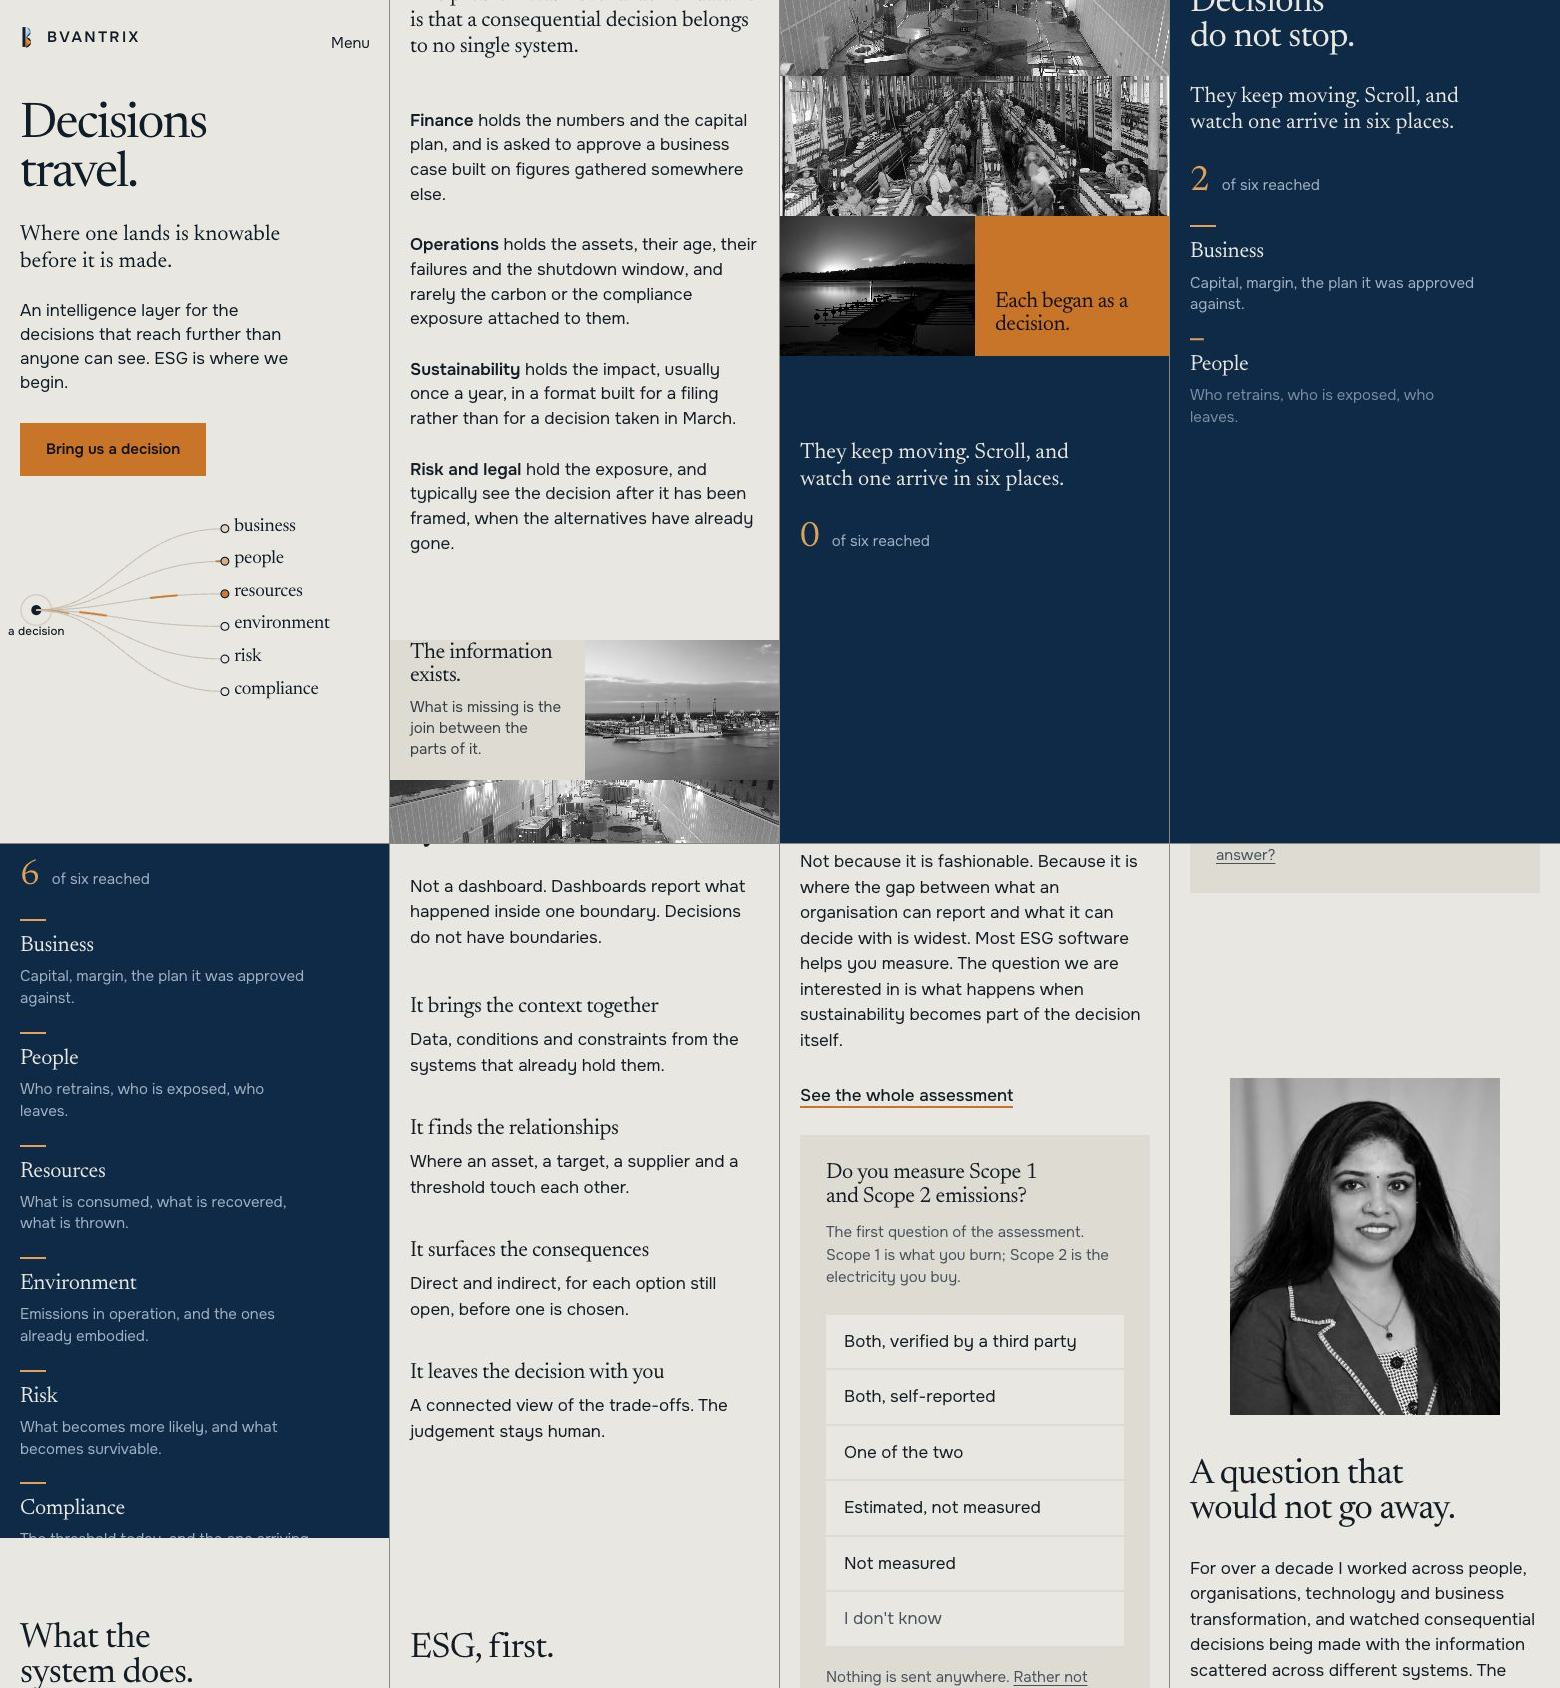
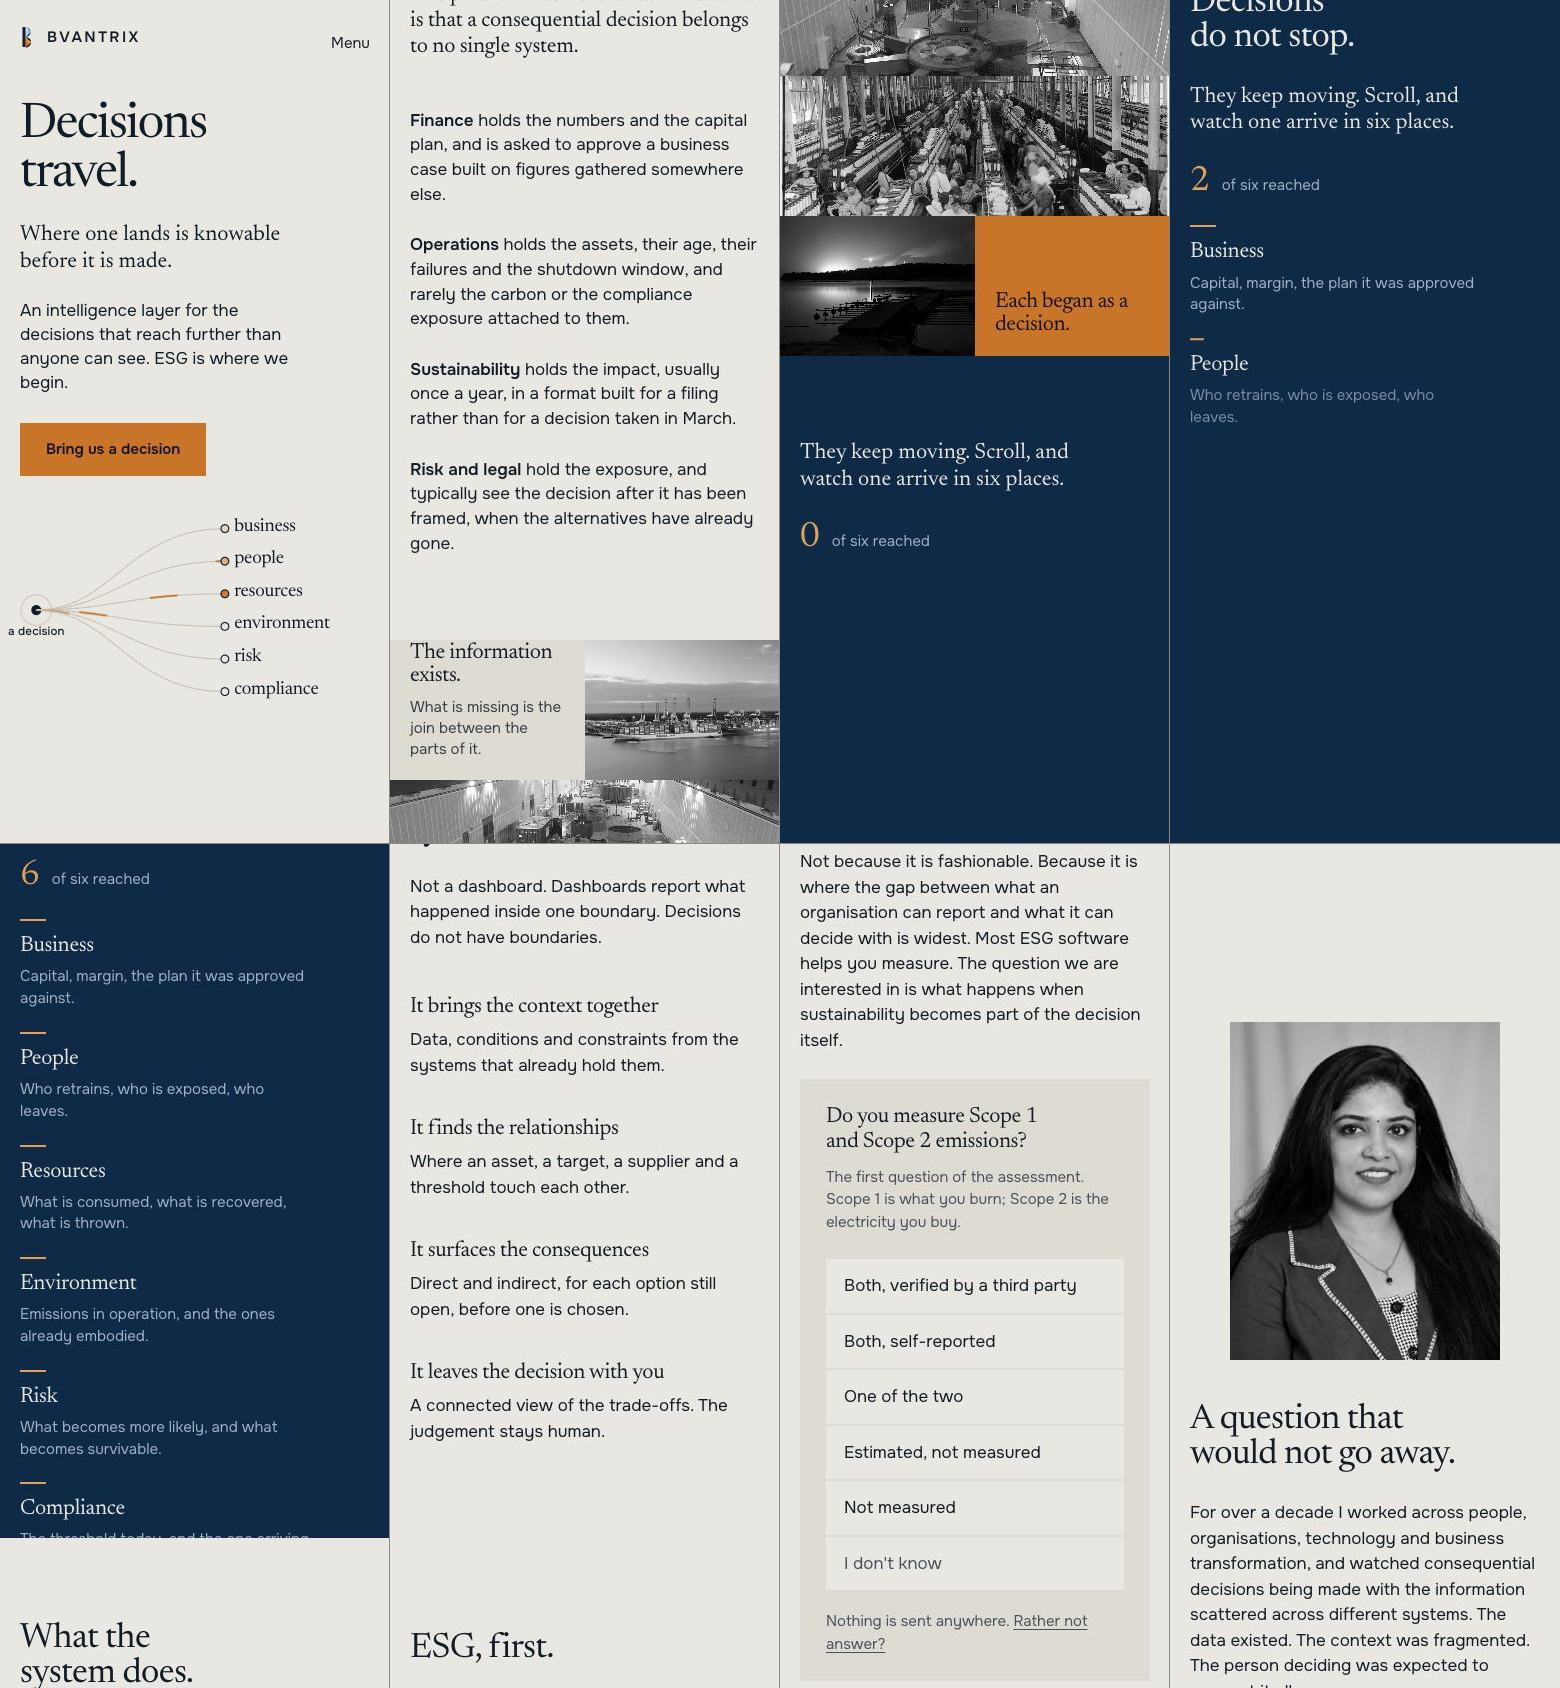
One way out of the ESG section, not three
"See the whole assessment" was a third link to the demo in a section
that already had two: the card's quiet "Rather not answer?" before
an answer is given, and "See your score" after one. Two of the three
were on screen at any moment, pointing at the same page in different
weights.

This is the fault that was fixed once already. Rebuilding the section
from scratch lost it, which is the risk of a rewrite: the markup is
new, the reasoning behind the old markup is not in it.

Now the section offers exactly one path in each state. Verified from
a clean session: before answering, "Rather not answer?"; after,
"See your score".

Changed region(s): [[0.7692, 0.5853, 0.9846, 1.0], [0.5231, 0.6469, 0.7077, 0.8934], [0.5231, 0.9242, 0.7077, 1.0]]

diff --git a/index.html b/index.html
@@ -25,7 +25,7 @@
 <link rel="preconnect" href="https://fonts.gstatic.com" crossorigin>
 <link rel="stylesheet" href="https://fonts.googleapis.com/css2?family=Newsreader:opsz,wght@6..72,300;6..72,400;6..72,500&family=Onest:wght@400;500;600&display=swap">
 <link rel="stylesheet" href="assets/scenes/stage.css">
-<link rel="stylesheet" href="css/style.css?v=9.8">
+<link rel="stylesheet" href="css/style.css?v=9.9">
 </head>
 <body>
 
@@ -258,9 +258,6 @@
       an organisation can report and what it can decide with is widest.
       Most ESG software helps you measure. The question we are interested in
       is what happens when sustainability becomes part of the decision itself.
-    </p>
-    <p class="rise rise--read" data-d="2" style="margin-top:30px">
-      <a class="act--quiet" href="esg-demo.html">See the whole assessment</a>
     </p>
   </div>
 
